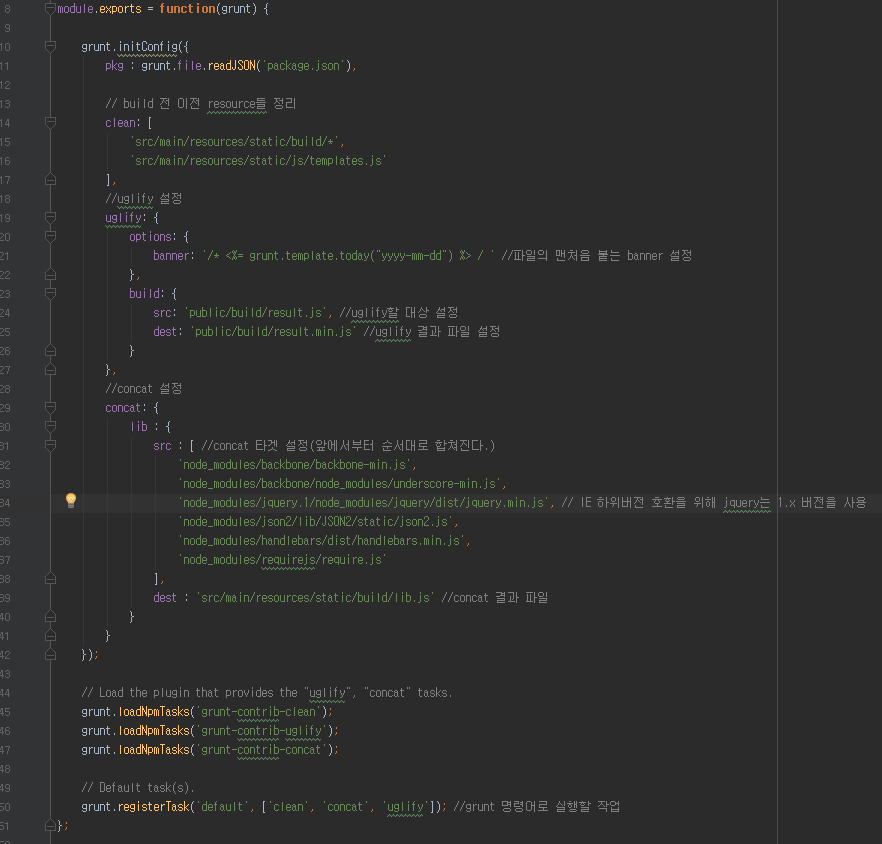
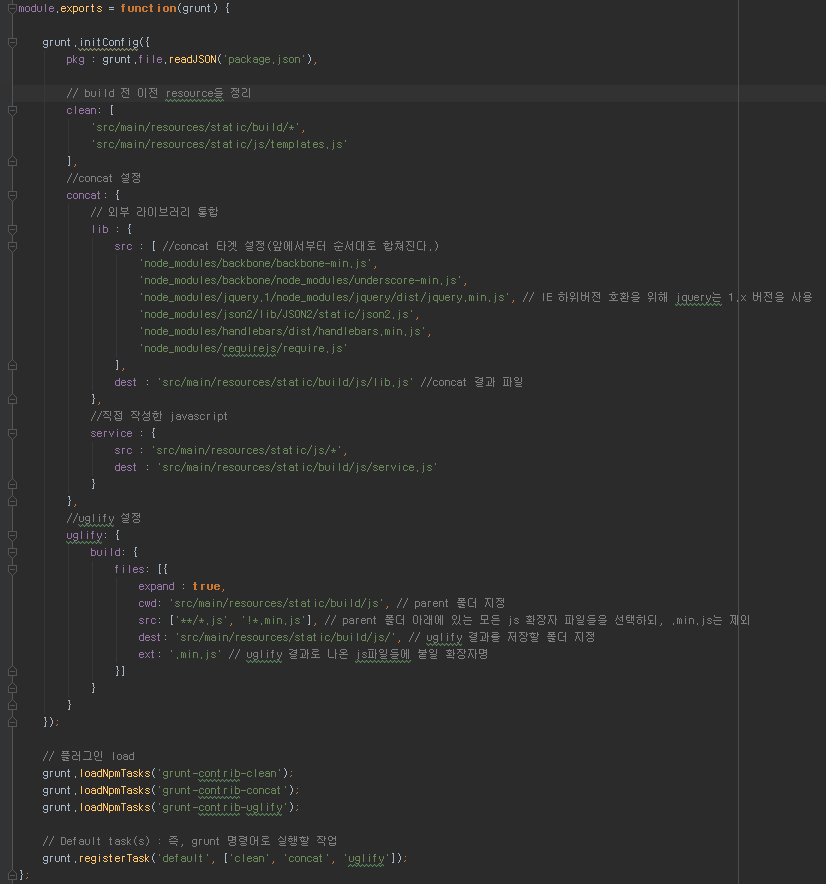
gruntfile uglify 패키지 옵션 적용

diff --git a/js-framework-ie78/Gruntfile.js b/js-framework-ie78/Gruntfile.js
@@ -15,37 +15,48 @@ module.exports = function(grunt) {
             'src/main/resources/static/build/*',
             'src/main/resources/static/js/templates.js'
         ],
-        //uglify 설정
-        uglify: {
-            options: {
-                banner: '/* <%= grunt.template.today("yyyy-mm-dd") %> / ' //파일의 맨처음 붙는 banner 설정
-            },
-            build: {
-                src: 'public/build/result.js', //uglify할 대상 설정
-                dest: 'public/build/result.min.js' //uglify 결과 파일 설정
-            }
-        },
         //concat 설정
         concat: {
+            // 외부 라이브러리 통합
             lib : {
                 src : [ //concat 타겟 설정(앞에서부터 순서대로 합쳐진다.)
+                    'node_modules/jquery.1/node_modules/jquery/dist/jquery.min.js', // IE 하위버전 호환을 위해 jquery는 1.x 버전을 사용
                     'node_modules/backbone/backbone-min.js',
                     'node_modules/backbone/node_modules/underscore-min.js',
-                    'node_modules/jquery.1/node_modules/jquery/dist/jquery.min.js', // IE 하위버전 호환을 위해 jquery는 1.x 버전을 사용
                     'node_modules/json2/lib/JSON2/static/json2.js',
                     'node_modules/handlebars/dist/handlebars.min.js',
                     'node_modules/requirejs/require.js'
                 ],
-                dest : 'src/main/resources/static/build/lib.js' //concat 결과 파일
+                dest : 'src/main/resources/static/build/js/lib.js' //concat 결과 파일
+            },
+            //직접 작성한 javascript 통합
+            service : {
+                src : 'src/main/resources/static/js/*',
+                dest : 'src/main/resources/static/build/js/service.js'
+            }
+        },
+        //uglify 설정
+        uglify: {
+            options: {
+                sourceMap: true
+            },
+            build: {
+                files: [{
+                    expand : true,
+                    cwd: 'src/main/resources/static/build/js', // parent 폴더 지정
+                    src: ['**/*.js', '!*.min.js'], // parent 폴더 아래에 있는 모든 js 확장자 파일들을 선택하되, .min.js는 제외
+                    dest: 'src/main/resources/static/build/js/', // uglify 결과를 저장할 폴더 지정
+                    ext: '.min.js' // uglify 결과로 나온 js파일들에 붙일 확장자명
+                }]
             }
         }
     });
 
-    // Load the plugin that provides the "uglify", "concat" tasks.
+    // 플러그인 load
     grunt.loadNpmTasks('grunt-contrib-clean');
-    grunt.loadNpmTasks('grunt-contrib-uglify');
     grunt.loadNpmTasks('grunt-contrib-concat');
-
-    // Default task(s).
-    grunt.registerTask('default', ['clean', 'concat', 'uglify']); //grunt 명령어로 실행할 작업
+    grunt.loadNpmTasks('grunt-contrib-uglify');
+    
+    // Default task(s) : 즉, grunt 명령어로 실행할 작업
+    grunt.registerTask('default', ['clean', 'concat', 'uglify']);
 };

diff --git a/js-framework-ie78/README.md b/js-framework-ie78/README.md
@@ -10,11 +10,10 @@ React/Angular/ES2015 에 대해 **회사에서는 못쓰지만 이직을 위해*
 그래서 최대한 이런 환경에서 모던하게 개발할 수 있는 방법을 소개하려 한다. <br/>
 본인의 회사가 IE9부터 지원한다면 뒤로가기 버튼을 살포시 누르면 된다 <br/>
 
-전체적인 방향은 이렇다. **서버단 작업을 최신**으로 하자는 것이다. <br/>
-
-### 사용할 JS 프레임워크
+### 사용할 JS
 * nodejs
   - 4.5.0 LTS 버전 사용 예정 (2016.09.20 기준)
+  - grunt를 사용하기 위해 먼저 설치되어 있어야함
   - Javascript 패키지 관리를 bower가 아닌 npm 으로 관리하기 위해 사용
   - bower는 버그가 좀 있다. 웬만하면 npm으로 패키지 관리를 추천
   
@@ -38,7 +37,7 @@ React/Angular/ES2015 에 대해 **회사에서는 못쓰지만 이직을 위해*
 * handlebars
   - client-side template engine
   - 서버 통신 없이 화면을 다시 그려야할 경우 사용
-  - 부끄럽지만.. handlebars.js에 대한 예제는 [내 블로그](http://jojoldu.tistory.com/23) 내용이 꽤 반응이 좋아서.. 추천! 
+  - 부끄럽지만.. handlebars.js에 대한 예제는 [내 블로그](http://jojoldu.tistory.com/23) 내용이 반응이 꽤 좋아서.. 추천! 
 
 * grunt
   - Javascript build 및 task 관리
@@ -52,8 +51,8 @@ React/Angular/ES2015 에 대해 **회사에서는 못쓰지만 이직을 위해*
 ![gruntfile](./images/gruntFile.png)
 
 GruntFile 생성후에는 grunt 명령어를 실행시킬수 있도록 grunt를 Global로 설치하자 <br/>
-현재 프로젝트 폴더로 이동후 터미널 혹은 CMD를 열어 <br/>
 ```
+현재 프로젝트 폴더로 이동후 터미널 혹은 CMD를 열어
 npm install -g grunt
 ```
 
@@ -67,4 +66,5 @@ grunt
 
 ![grunt실행후](./images/gruntAfter.png)
 
-방금한것이 GruntFile.js를 기반으로하여 grunt를 실행시킨 것이다. <br/>
+방금한것이 GruntFile.js를 기반으로하여 grunt task를 실행시킨 것이다. <br/>
+(확실히 느낀건 webpack 쓰는게 좋다 build 개 오래 걸리네...)
